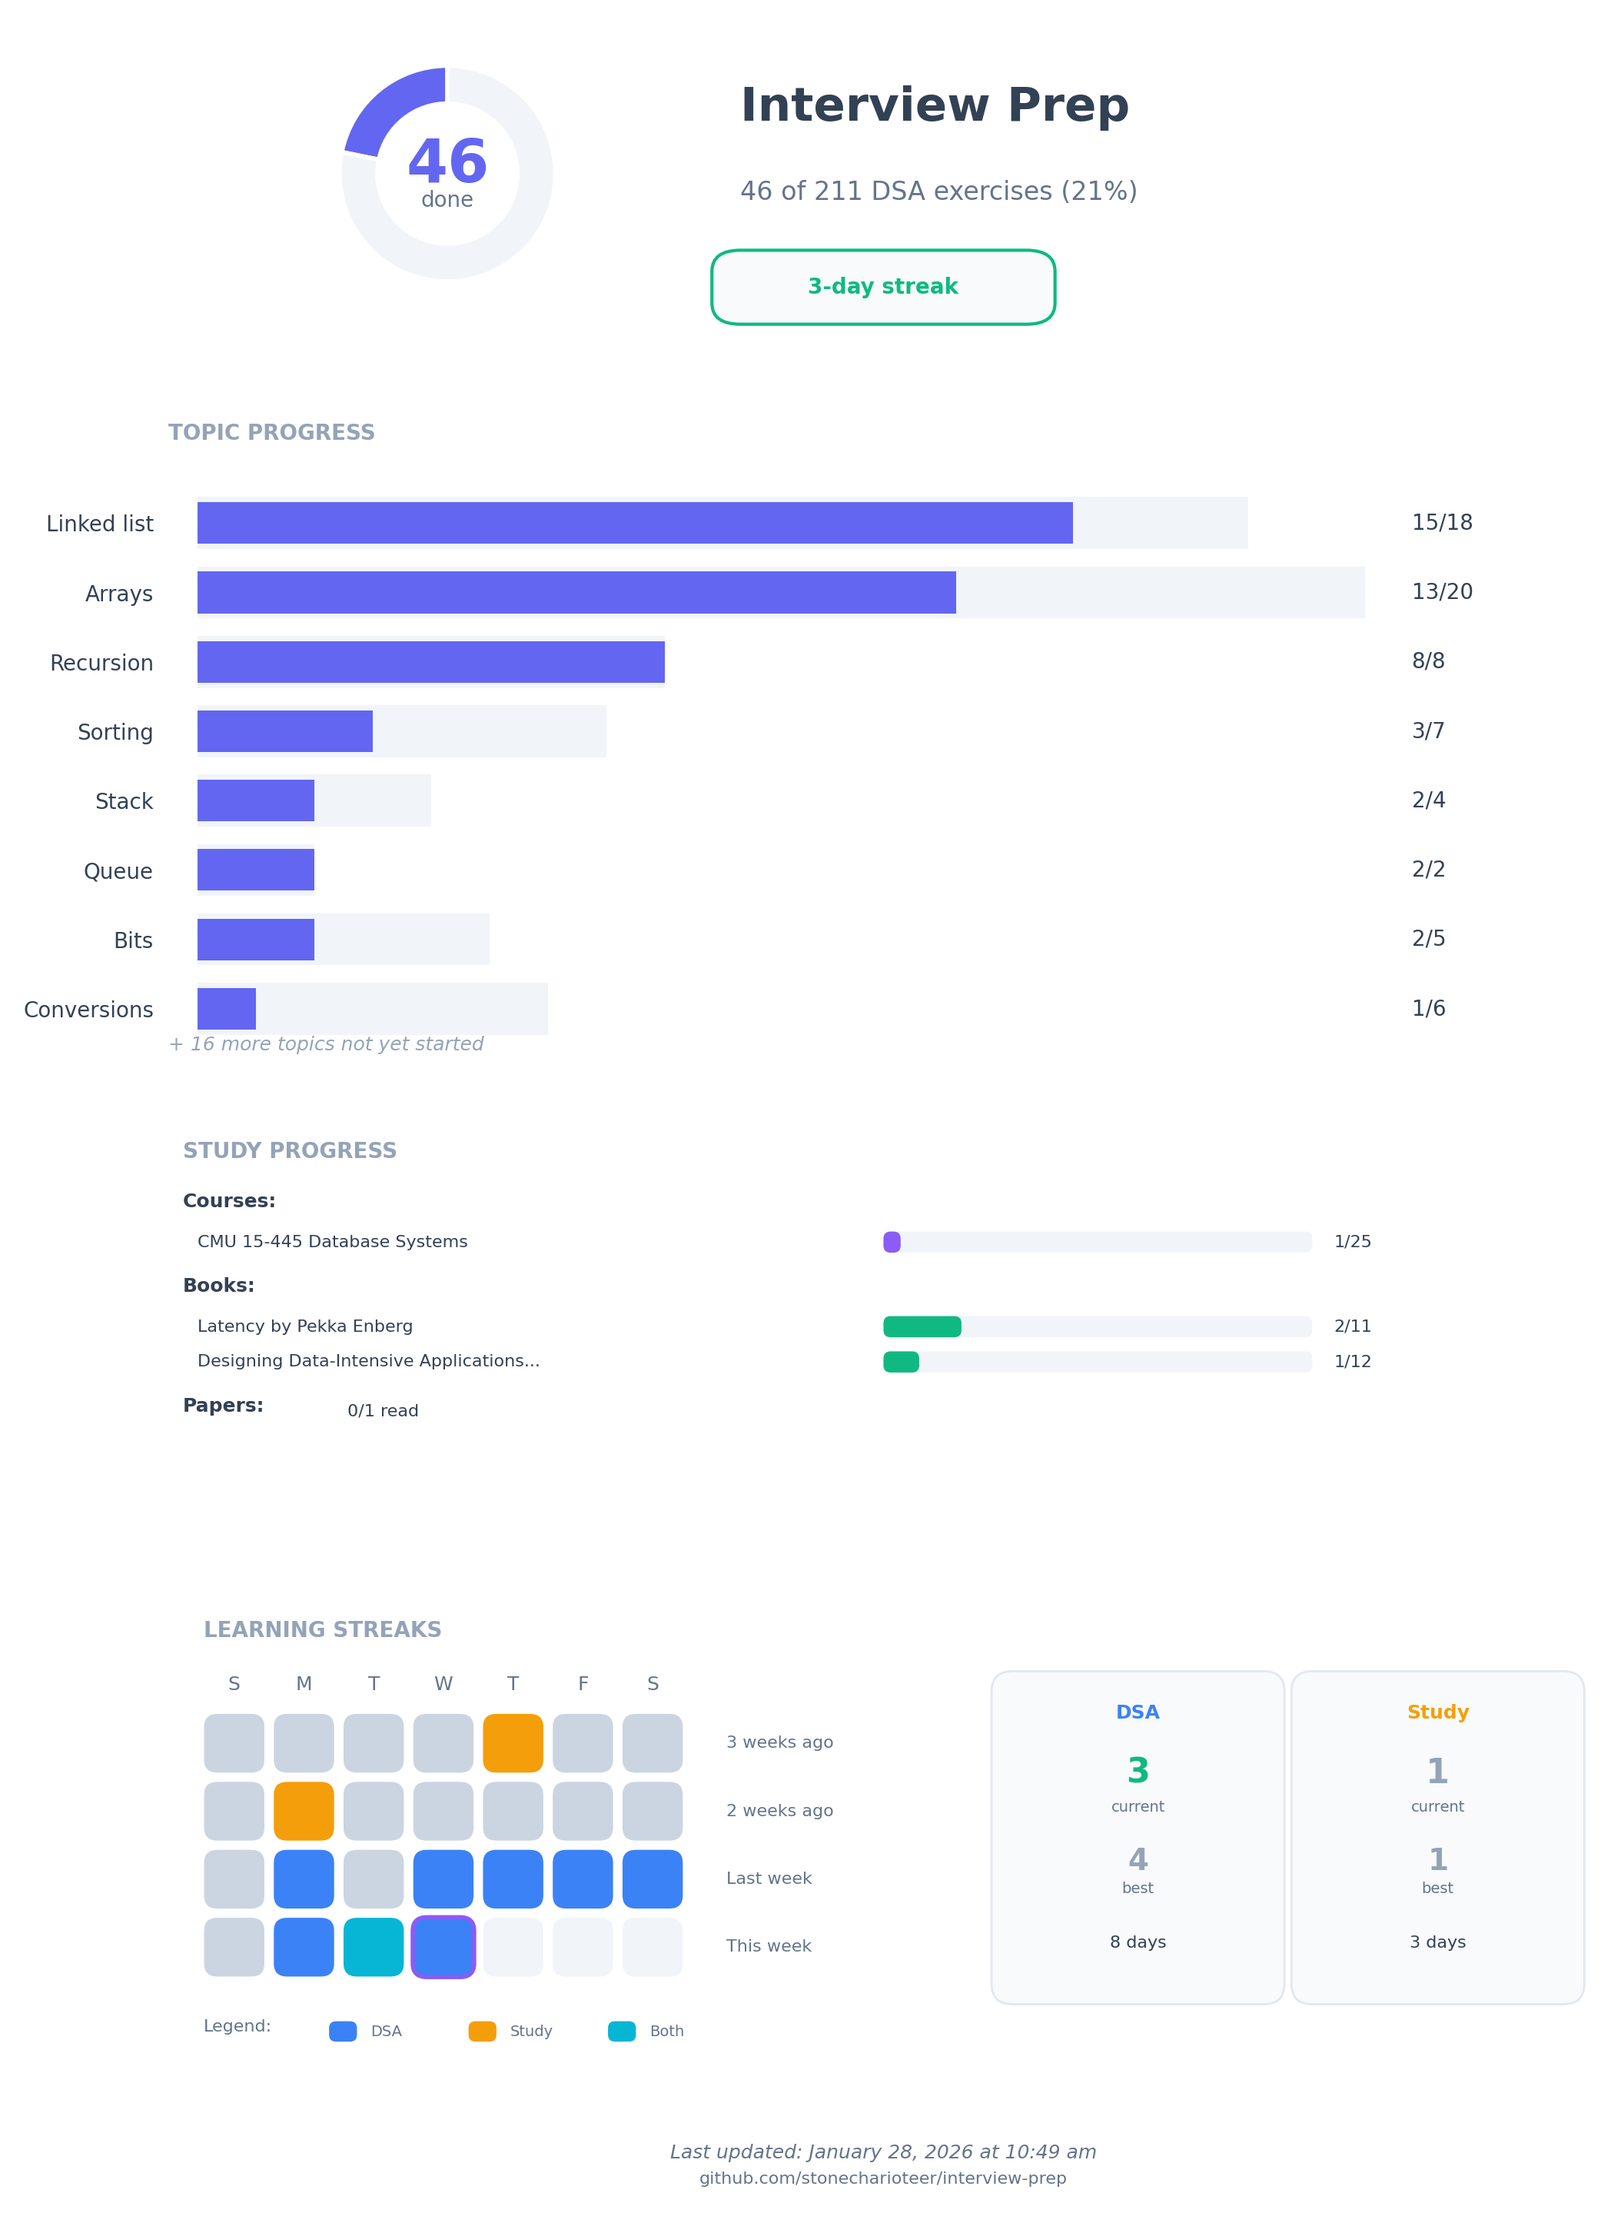
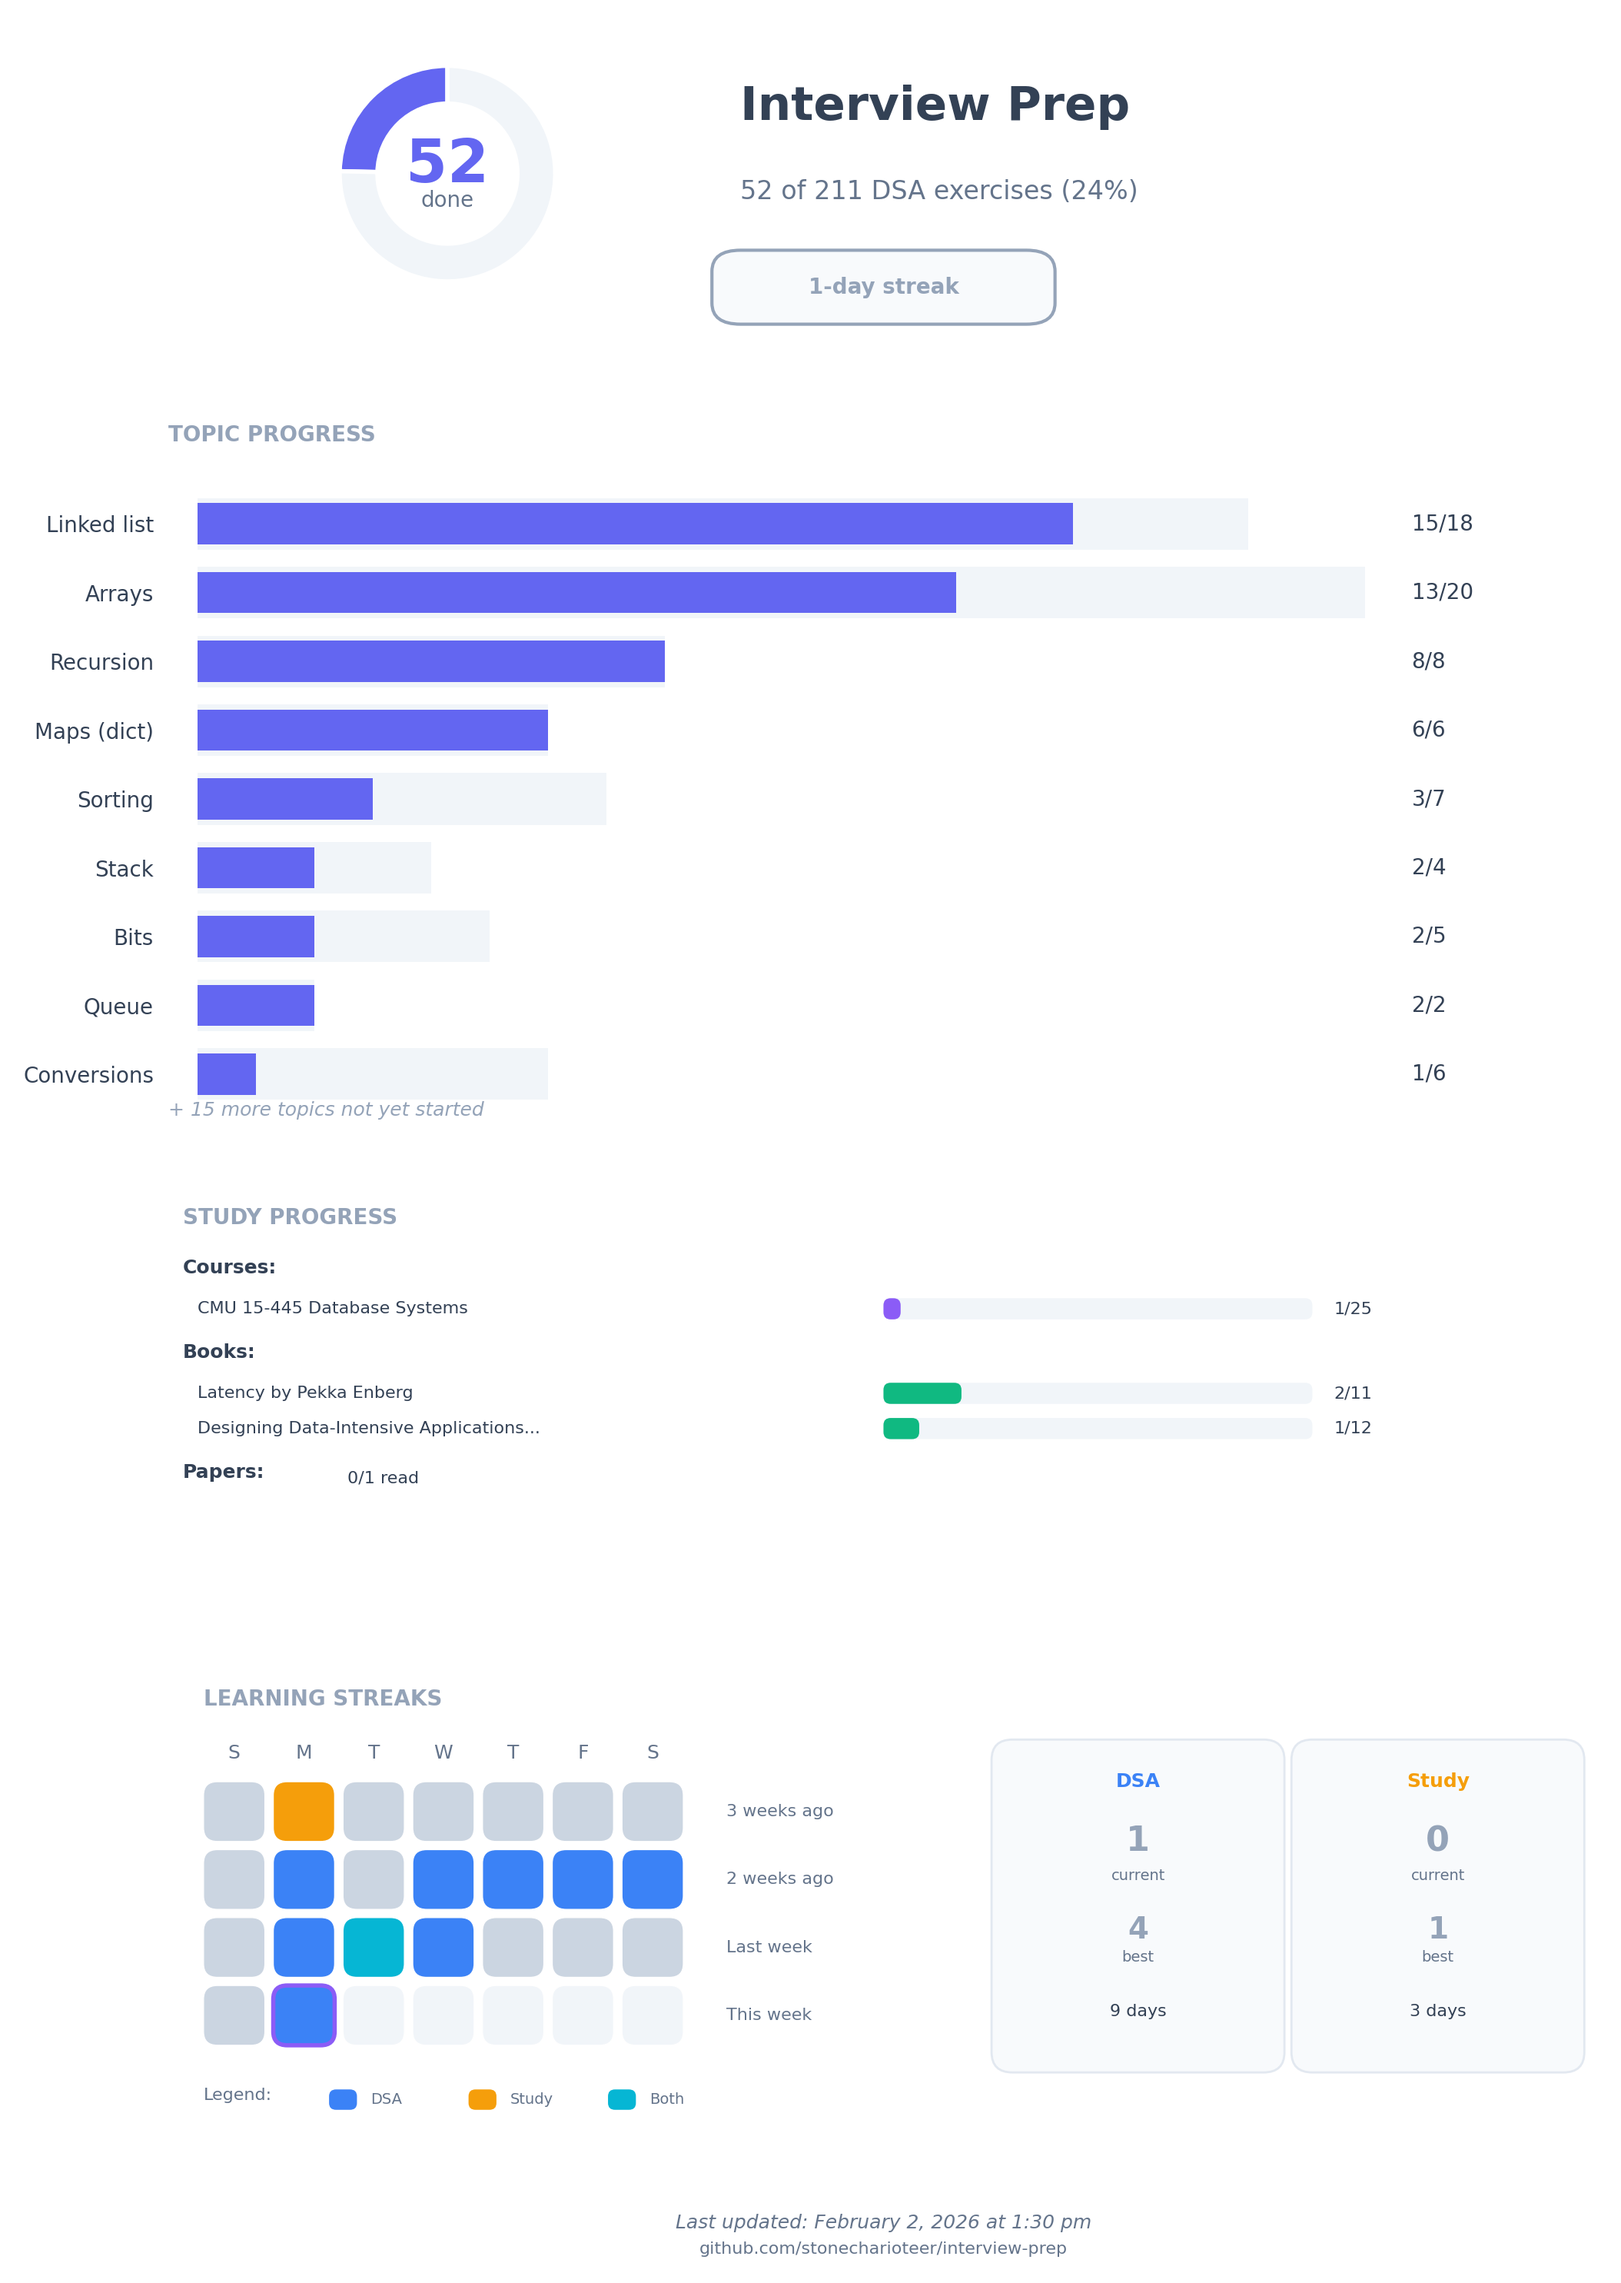
solve: maps, all problems

diff --git a/python/src/year_2026/maps.py b/python/src/year_2026/maps.py
@@ -1,4 +1,4 @@
-from typing import Dict, TypeVar
+from typing import Any, Dict, List, TypeVar
 
 
 T = TypeVar("T")
@@ -12,24 +12,41 @@ def get_or_default(d: Dict[T, V], key: T, default: V) -> V:
 
 def increment_count(d, key):
     """Increment count for key (initialize to 1 if not present), return dict."""
-    raise NotImplementedError
+    d[key] = d.get(key, 0)+1
+    return d
 
 
 def merge_counts(a, b):
     """Merge two count dicts, summing values for common keys."""
-    raise NotImplementedError
+    c = {}
+    all_keys = set(a.keys()).union(b.keys())
+    for key in all_keys:
+        c[key] = a.get(key, 0) + b.get(key, 0)
+    return c
 
 
 def most_common(d):
     """Return the key with the highest count, None if dict is empty."""
-    raise NotImplementedError
+    most_common_key = None
+    for key in d:
+        value = d[key]
+        if most_common_key is None or value > d[most_common_key]:
+            most_common_key = key
+    return most_common_key
 
 
-def invert_mapping(d):
+def invert_mapping(d: Dict[Any, Any]) -> Dict[Any, List[Any]]:
     """Invert mapping: values become keys, keys become lists of original keys."""
-    raise NotImplementedError
+    d1 = {}
+    for key,value in d.items():
+        d1[value] = d1.get(value, []) + [ key ]
+
+    return d1
 
 
 def first_non_repeating(d):
     """Return the first key with count of 1, None if all repeat or dict is empty."""
-    raise NotImplementedError
+    for key,value in d.items():
+        if value == 1:
+            return key
+    return None

diff --git a/python/test/test_2026_maps.py b/python/test/test_2026_maps.py
@@ -26,7 +26,6 @@ class TestGetOrDefault:
         assert maps.get_or_default(d, "a", 99) == 0
 
 
-@pytest.mark.xfail(reason="Not implemented yet", raises=NotImplementedError)
 class TestIncrementCount:
     def test_increment_existing(self):
         d = {"a": 5}
@@ -50,7 +49,6 @@ class TestIncrementCount:
         assert d["a"] == 3
 
 
-@pytest.mark.xfail(reason="Not implemented yet", raises=NotImplementedError)
 class TestMergeCounts:
     def test_merge_disjoint(self):
         a = {"x": 1, "y": 2}
@@ -73,7 +71,6 @@ class TestMergeCounts:
         assert maps.merge_counts({}, {}) == {}
 
 
-@pytest.mark.xfail(reason="Not implemented yet", raises=NotImplementedError)
 class TestMostCommon:
     def test_single_max(self):
         d = {"a": 1, "b": 5, "c": 3}
@@ -91,7 +88,6 @@ class TestMostCommon:
         assert result in ["a", "b"]
 
 
-@pytest.mark.xfail(reason="Not implemented yet", raises=NotImplementedError)
 class TestInvertMapping:
     def test_simple_invert(self):
         d = {"a": 1, "b": 2, "c": 3}
@@ -108,7 +104,6 @@ class TestInvertMapping:
         assert maps.invert_mapping({}) == {}
 
 
-@pytest.mark.xfail(reason="Not implemented yet", raises=NotImplementedError)
 class TestFirstNonRepeating:
     def test_first_non_repeating(self):
         # Ordered dict behavior expected

diff --git a/exercises.md b/exercises.md
@@ -1,6 +1,6 @@
 # Exercise List
 
-**Progress: 46/211 exercises completed in Python (21%)**
+**Progress: 52/211 exercises completed in Python (24%)**
 
 1. Arrays: `min.` 🐍[x] 🦀[ ] 🟨[ ]
 2. Arrays: `max.` 🐍[x] 🦀[ ] 🟨[ ]
@@ -43,7 +43,7 @@
 39. Binary search: `find_last_occurrence (rightmost index).` 🐍[ ] 🦀[ ] 🟨[ ]
 40. Binary search: `search_insert_position.` 🐍[ ] 🦀[ ] 🟨[ ]
 41. Linked list: `insert_at_index.` 🐍[x] 🦀[ ] 🟨[ ]
-42. Maps (dict): `get_or_default.` 🐍[ ] 🦀[ ] 🟨[ ]
+42. Maps (dict): `get_or_default.` 🐍[x] 🦀[ ] 🟨[ ]
 43. Math: `gcd (Euclidean algorithm).` 🐍[ ] 🦀[ ] 🟨[ ]
 44. Math: `lcm (using gcd).` 🐍[ ] 🦀[ ] 🟨[ ]
 45. Trees (binary): `define Node.` 🐍[ ] 🦀[ ] 🟨[ ]
@@ -52,27 +52,27 @@
 48. Recursion: `power(base, exp) (recursive).` 🐍[x] 🦀[ ] 🟨[ ]
 49. Recursion: `power_memo(base, exp) (memoized version).` 🐍[x] 🦀[ ] 🟨[ ]
 50. Linked list: `remove_at_index.` 🐍[x] 🦀[ ] 🟨[ ]
-51. Maps (dict): `increment_count.` 🐍[ ] 🦀[ ] 🟨[ ]
+51. Maps (dict): `increment_count.` 🐍[x] 🦀[ ] 🟨[ ]
 52. Math: `is_prime (basic check).` 🐍[ ] 🦀[ ] 🟨[ ]
 53. Trees (binary): `preorder traversal.` 🐍[ ] 🦀[ ] 🟨[ ]
 54. Stack: `min_stack (get min in O(1)).` 🐍[ ] 🦀[ ] 🟨[ ]
 55. Bits: `single_number (XOR trick, one unique in pairs).` 🐍[ ] 🦀[ ] 🟨[ ]
 56. Arrays: `rotate_k.` 🐍[ ] 🦀[ ] 🟨[ ]
 57. Linked list: `reverse (iterative).` 🐍[x] 🦀[ ] 🟨[ ]
-58. Maps (dict): `merge_counts from two dicts.` 🐍[ ] 🦀[ ] 🟨[ ]
+58. Maps (dict): `merge_counts from two dicts.` 🐍[x] 🦀[ ] 🟨[ ]
 59. Trees (binary): `inorder traversal.` 🐍[ ] 🦀[ ] 🟨[ ]
 60. Heap (min): `define structure, implement insert.` 🐍[ ] 🦀[ ] 🟨[ ]
 61. Arrays: `two_sum (return indices, hash map approach).` 🐍[ ] 🦀[ ] 🟨[ ]
 62. Two pointers: `two_sum_sorted (sorted array, O(1) space).` 🐍[ ] 🦀[ ] 🟨[ ]
 63. Linked list: `middle_node.` 🐍[x] 🦀[ ] 🟨[ ]
-64. Maps (dict): `most_common key.` 🐍[ ] 🦀[ ] 🟨[ ]
+64. Maps (dict): `most_common key.` 🐍[x] 🦀[ ] 🟨[ ]
 65. Two pointers: `three_sum (find triplets summing to zero).` 🐍[ ] 🦀[ ] 🟨[ ]
 66. Trees (binary): `postorder traversal.` 🐍[ ] 🦀[ ] 🟨[ ]
 67. Heap (min): `extract_min.` 🐍[ ] 🦀[ ] 🟨[ ]
 68. Two pointers: `container_with_most_water.` 🐍[ ] 🦀[ ] 🟨[ ]
 69. Arrays: `remove_duplicates_sorted.` 🐍[ ] 🦀[ ] 🟨[ ]
 70. Linked list: `detect_cycle (tortoise/hare).` 🐍[ ] 🦀[ ] 🟨[ ]
-71. Maps (dict): `invert mapping (handle collisions).` 🐍[ ] 🦀[ ] 🟨[ ]
+71. Maps (dict): `invert mapping (handle collisions).` 🐍[x] 🦀[ ] 🟨[ ]
 72. Trees (binary): `level-order traversal (queue-based).` 🐍[ ] 🦀[ ] 🟨[ ]
 73. Heap (min): `peek and size.` 🐍[ ] 🦀[ ] 🟨[ ]
 74. Trie: `define TrieNode.` 🐍[ ] 🦀[ ] 🟨[ ]
@@ -80,7 +80,7 @@
 76. Sorting: `quick_sort (uses partition, recursive).` 🐍[ ] 🦀[ ] 🟨[ ]
 77. Monotonic stack: `next_greater_element (for each element).` 🐍[ ] 🦀[ ] 🟨[ ]
 78. Linked list: `merge_sorted (two lists).` 🐍[ ] 🦀[ ] 🟨[ ]
-79. Maps (dict): `first_non_repeating (return key or None).` 🐍[ ] 🦀[ ] 🟨[ ]
+79. Maps (dict): `first_non_repeating (return key or None).` 🐍[x] 🦀[ ] 🟨[ ]
 80. Trees (binary): `size.` 🐍[ ] 🦀[ ] 🟨[ ]
 81. Heap (min): `heapify (build heap from array in O(n)).` 🐍[ ] 🦀[ ] 🟨[ ]
 82. Trie: `insert word.` 🐍[ ] 🦀[ ] 🟨[ ]

diff --git a/scripts/TODO.md b/scripts/TODO.md
@@ -1,0 +1,87 @@
+# Study Tracker Implementation TODO
+
+## Phase 1: Foundation
+- [x] Create TODO.md tracking file
+
+## Phase 2: Database Schema
+- [x] Add books table
+- [x] Add book_progress table
+- [x] Add courses table
+- [x] Add lectures table
+- [x] Add lecture_progress table
+- [x] Add homework table
+- [x] Add homework_progress table
+- [x] Add projects table
+- [x] Add project_progress table
+- [x] Add papers table
+- [x] Add paper_progress table
+- [x] Add course_books association table
+- [x] Add lecture_chapters association table
+- [x] Add course_papers association table
+- [x] Add lecture_papers association table
+
+## Phase 3: Book Commands
+- [x] Add StudyStatus enum
+- [x] Create study_app sub-app
+- [x] Implement book-add command
+- [x] Implement book-read command
+- [x] Implement book-list command
+- [x] Implement book-show command
+
+## Phase 4: Course Commands
+- [x] Implement course-add command
+- [x] Implement lecture-add command
+- [x] Implement watch command
+- [x] Implement course-list command
+- [x] Implement course-show command
+
+## Phase 5: Homework & Project Commands
+- [x] Implement homework-add command
+- [x] Implement homework-done command
+- [x] Implement project-add command
+- [x] Implement project-done command
+
+## Phase 5b: Paper Commands
+- [x] Implement paper-add command
+- [x] Implement paper-read command
+- [x] Implement paper-list command
+
+## Phase 5c: Association Commands
+- [x] Implement course-book command
+- [x] Implement lecture-chapters command
+- [x] Implement course-paper command
+- [x] Implement lecture-paper command
+- [x] Display associations in course-show output
+
+## Phase 6: Summary & Streak
+- [x] Implement study summary (default callback)
+- [x] Implement get_study_activity_dates()
+- [x] Calculate study streak (separate from DSA)
+- [x] Implement recent command
+
+## Phase 7: Visualization
+- [x] Add books section to progress.png
+- [x] Add courses section to progress.png
+- [x] Add papers section to progress.png
+- [x] Add study streak calendar to progress.png (combined with DSA, color-coded)
+- [x] Update generate_progress_chart() for combined view
+
+## Phase 8: Justfile & Docs
+- [x] Update `just progress` to be a pass-through alias (all args forwarded to progress.py)
+
+## Phase 9: Book Chapter Progress Redesign
+Replacing session-based tracking with chapter-level completion tracking.
+
+### Database
+- [x] Add chapter_progress table (book_id, chapter_number, progress_pct, updated_date)
+- [x] Migrate/drop old book_progress table
+
+### Commands
+- [x] Update book-read to track chapter completion: `book-read ID --chapter N [--progress PCT]`
+- [x] Support bulk completion: `book-read ID --chapters 1-3`
+- [x] Update book-show to display per-chapter progress
+- [x] Update book-list to show overall book completion percentage
+
+### Visualization
+- [x] Update get_study_data_for_chart to calculate book progress from chapter_progress
+- [x] Show accurate book completion percentage in progress.png
